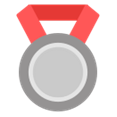
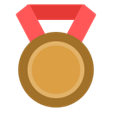
Ajout de la médaille de chocolat pour le 4 Changement de style pour les éléemtns

diff --git a/front/src/components/ClassementElement.vue b/front/src/components/ClassementElement.vue
@@ -1,6 +1,6 @@
 <template>
     <div :class="'classement-element '+ classUserCarElement">
-        <div v-if="props.rank > 3" class="rank">{{ props.rank }}</div>
+        <div v-if="props.rank > PODIUM" class="rank">{{ props.rank }}</div>
         <div v-else class="rank-image" :style="{ backgroundImage: `url(../src/assets/img/rank${props.rank}.png)`}"></div>
         <AutoRegeneratedAvatar :avatar-config="props.avatar"/>
         <div class="pseudo">{{ props.pseudo }}</div>
@@ -24,6 +24,7 @@ const props = defineProps<{
 
 const userCar = useCarStore();
 let classUserCarElement = ref('');
+const PODIUM = 4;
 
 // Ajoute une classe si l'élément de l'utilisateur
 classUserCarElement.value = userCar.car.pseudo == props.pseudo ? 'user-element' : '';
@@ -51,6 +52,12 @@ div.classement-element {
     }
 
     div.rank {
+        display: flex;
+        justify-content: center;
+        align-items: center;
+        font-weight: 500;
+        width: 30px;
+        height: 30px;
         margin-left: 5px;
         margin-right: 10px;
     }
